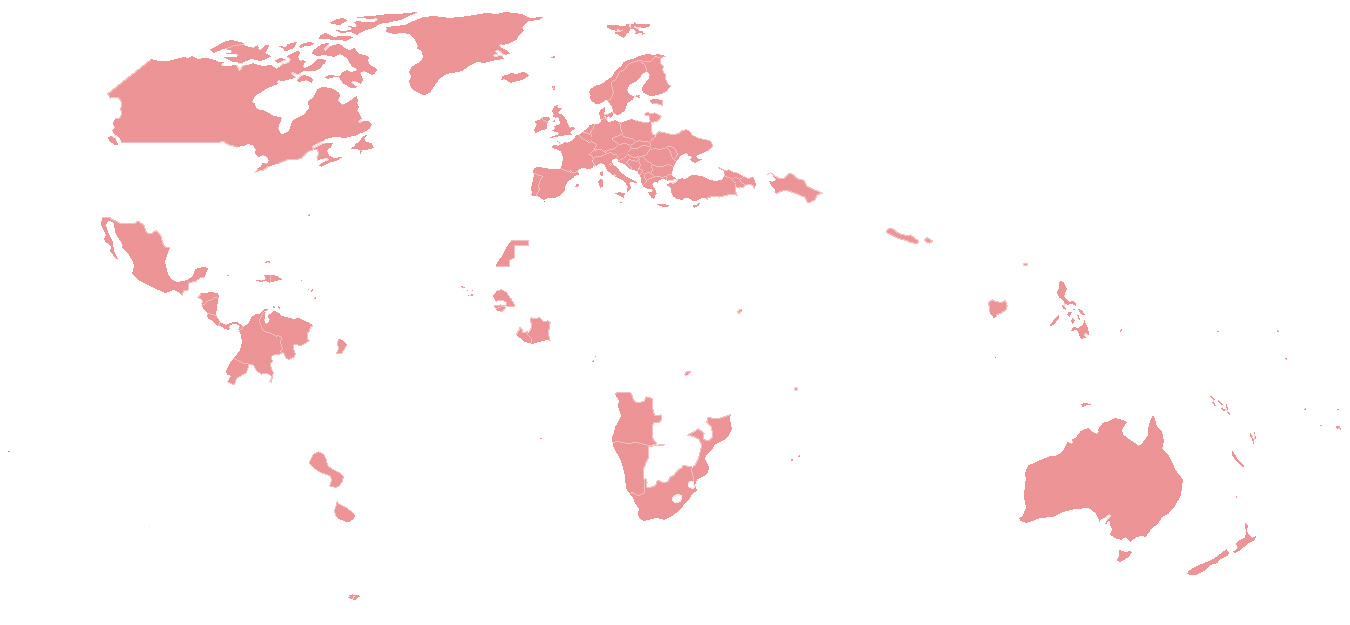
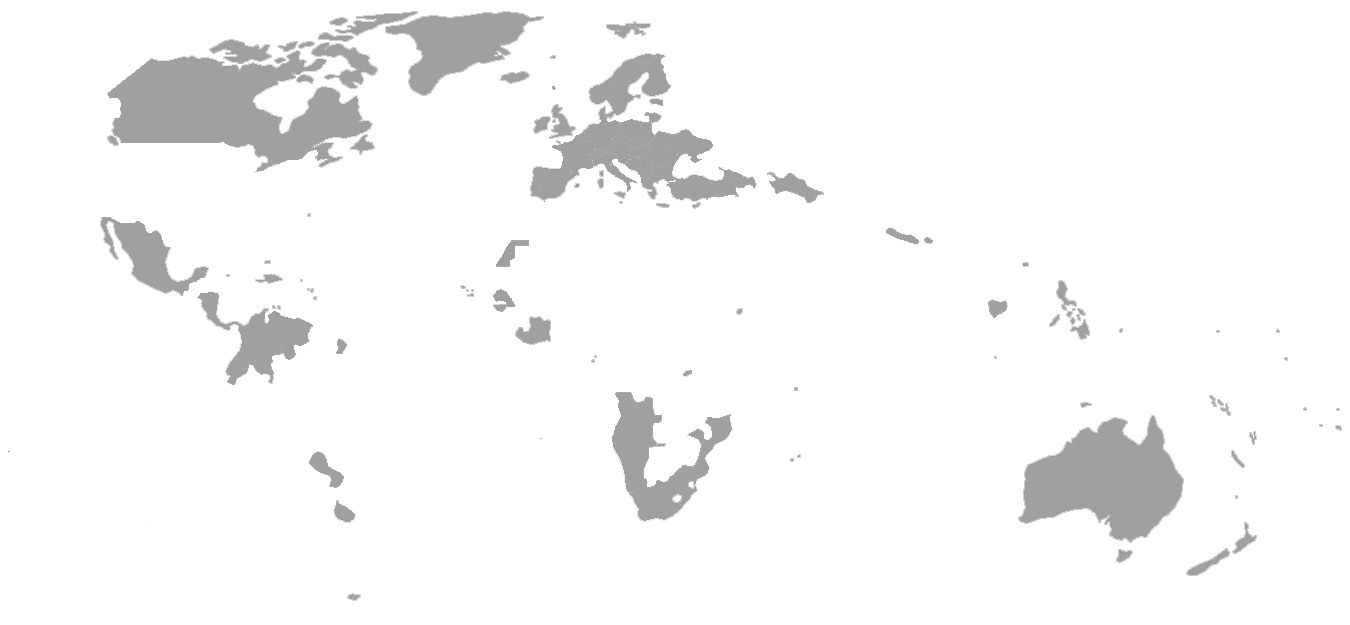
modification couleurs, sauts de lignes, guillemets, taille typo

diff --git a/index.html b/index.html
@@ -1,90 +1,77 @@
 <html>
-
 <head>
-    <meta charset="UTF-8">
-    <!-- Styles -->
-    <link href="style.css" rel="stylesheet" type="text/css">
-    <link href="https://fonts.googleapis.com/css?family=Helvetica:300" rel="stylesheet">
-    <!-- Librairies -->
-    <script language="javascript" type="text/javascript" src="libraries/p5.js"></script>
-    <script language="javascript" type="text/javascript" src="libraries/p5.sound.js"></script>
+<meta charset="UTF-8">
+<!-- Styles -->
+<link href="style.css" rel="stylesheet" type="text/css">
+<link href="https://fonts.googleapis.com/css?family=Helvetica:300" rel="stylesheet">
+<!-- Librairies -->
+<script language="javascript" type="text/javascript" src="libraries/p5.js"></script>
+<script language="javascript" type="text/javascript" src="libraries/p5.sound.js"></script>
 
-    <!-- Scripts -->
-    <script language="javascript" type="text/javascript" src="index.js"></script>
-
+<!-- Scripts -->
+<script language="javascript" type="text/javascript" src="index.js"></script>
 </head>
 
 <body>
-    <div class="container">
-        <div class="pages" id="pages">
-            <div class="page page1">
-                <div class="page-content">
-                    <blockquote class="citation">
-                        <a href="page1.html">« Il n’est point d’hommes
-                            <br> en cette terre
-                            <br> dont la culpabilité
-                            <br> soit totale
-                            <br> et dont il faille pour toujours
-                            <br> désespérer totalement. »</a>
-                    </blockquote>
-                    <svg onclick="goPage2()" class="arrow" width="64" height="64" viewBox="0 0 64 64">
-                        <path d="M32.919 55.738c-0.858 0.867-0.858 2.266 0 3.133s2.243 0.867 3.101 0l25.056-25.302c0.858-0.867 0.858-2.269 0-3.133l-25.056-25.306c-0.858-0.867-2.243-0.867-3.101 0s-0.858 2.266 0 3.133l22.848 23.738-22.848 23.738z"></path>
-                    </svg>
-                </div>
-            </div>
-            <div class="page page2">
-                <div class="page-content">
-                    <svg onclick="goPage1()" class="arrow previous" width="64" height="64" viewBox="0 0 64 64">
-                        <path d="M32.919 55.738c-0.858 0.867-0.858 2.266 0 3.133s2.243 0.867 3.101 0l25.056-25.302c0.858-0.867 0.858-2.269 0-3.133l-25.056-25.306c-0.858-0.867-2.243-0.867-3.101 0s-0.858 2.266 0 3.133l22.848 23.738-22.848 23.738z"></path>
-                    </svg>
-                    <blockquote class="citation">
-                        <a href="page2.html">« La passion meurtrière
-                            <br> n’est pas arrêtée par
-                            <br> la peur de la mort,
-                            <br> il n’y a pas dans la peine de mort de valeur dissuasive. »</a>
-                    </blockquote>
-                    <svg onclick="goPage3()" class="arrow" width="64" height="64" viewBox="0 0 64 64">
-                        <path d="M32.919 55.738c-0.858 0.867-0.858 2.266 0 3.133s2.243 0.867 3.101 0l25.056-25.302c0.858-0.867 0.858-2.269 0-3.133l-25.056-25.306c-0.858-0.867-2.243-0.867-3.101 0s-0.858 2.266 0 3.133l22.848 23.738-22.848 23.738z"></path>
-                    </svg>
-                </div>
-            </div>
-            <div class="page page3">
-                <div class="page-content">
-                    <svg onclick="goPage2()" class="arrow previous" width="64" height="64" viewBox="0 0 64 64">
-                        <path d="M32.919 55.738c-0.858 0.867-0.858 2.266 0 3.133s2.243 0.867 3.101 0l25.056-25.302c0.858-0.867 0.858-2.269 0-3.133l-25.056-25.306c-0.858-0.867-2.243-0.867-3.101 0s-0.858 2.266 0 3.133l22.848 23.738-22.848 23.738z"></path>
-                    </svg>
-                    <blockquote class="citation">
-                        <a href="page3.html">« Cette conception-là
-                            <br> de la justice
-                            <br> n’est pas celle
-                            <br> des pays de liberté. » </a>
-                    </blockquote>
-                    <svg onclick="goPage4()" class="arrow" width="64" height="64" viewBox="0 0 64 64">
-                        <path d="M32.919 55.738c-0.858 0.867-0.858 2.266 0 3.133s2.243 0.867 3.101 0l25.056-25.302c0.858-0.867 0.858-2.269 0-3.133l-25.056-25.306c-0.858-0.867-2.243-0.867-3.101 0s-0.858 2.266 0 3.133l22.848 23.738-22.848 23.738z"></path>
-                    </svg>
-                </div>
-            </div>
-            <div class="page page4">
-                <div class="page-content">
-                        <svg onclick="goPage3()" class="arrow previous" width="64" height="64" viewBox="0 0 64 64">
-                            <path d="M32.919 55.738c-0.858 0.867-0.858 2.266 0 3.133s2.243 0.867 3.101 0l25.056-25.302c0.858-0.867 0.858-2.269 0-3.133l-25.056-25.306c-0.858-0.867-2.243-0.867-3.101 0s-0.858 2.266 0 3.133l22.848 23.738-22.848 23.738z"></path>
-                        </svg>
-                    <blockquote class="citation">
-                        <a href="page4.html">« Demain,
-                            <br> la justice française ne sera plus une justice qui tue
-                            <br> (...)
-                            <br> et demain
-                            <br> les pages sanglantes de notre justice seront tournées. (...)
-                            <br>
-                            <br> Demain, c’est l’abolition.
-                            <br> Législateurs français,
-                            <br> de tout mon coeur,
-                            <br> je vous remercie. »</a>
-                    </blockquote>
-                </div>
-            </div>
-        </div>
+<div class="container">
+  <div class="pages" id="pages">
+    <div class="page page1">
+      <div class="page-content">
+        <blockquote class="citation"> <a href="page1.html"> Il n’est point d’hommes en cette terre <br>
+          dont la culpabilité soit totale <br>
+          et dont il faille pour toujours <br>
+          désespérer totalement. </a> </blockquote>
+        <svg onclick="goPage2()" class="arrow" width="64" height="64" viewBox="0 0 64 64">
+          <path d="M32.919 55.738c-0.858 0.867-0.858 2.266 0 3.133s2.243 0.867 3.101 0l25.056-25.302c0.858-0.867 0.858-2.269 0-3.133l-25.056-25.306c-0.858-0.867-2.243-0.867-3.101 0s-0.858 2.266 0 3.133l22.848 23.738-22.848 23.738z"></path>
+        </svg>
+      </div>
     </div>
+    <div class="page page2">
+      <div class="page-content">
+        <svg onclick="goPage1()" class="arrow previous" width="64" height="64" viewBox="0 0 64 64">
+          <path d="M32.919 55.738c-0.858 0.867-0.858 2.266 0 3.133s2.243 0.867 3.101 0l25.056-25.302c0.858-0.867 0.858-2.269 0-3.133l-25.056-25.306c-0.858-0.867-2.243-0.867-3.101 0s-0.858 2.266 0 3.133l22.848 23.738-22.848 23.738z"></path>
+        </svg>
+        <blockquote class="citation"> <a href="page2.html"> La passion meurtrière <br>
+          n’est pas arrêtée par la peur de la mort, <br>
+          il n’y a pas dans la peine de mort <br>
+          de valeur dissuasive. </a> </blockquote>
+        <svg onclick="goPage3()" class="arrow" width="64" height="64" viewBox="0 0 64 64">
+          <path d="M32.919 55.738c-0.858 0.867-0.858 2.266 0 3.133s2.243 0.867 3.101 0l25.056-25.302c0.858-0.867 0.858-2.269 0-3.133l-25.056-25.306c-0.858-0.867-2.243-0.867-3.101 0s-0.858 2.266 0 3.133l22.848 23.738-22.848 23.738z"></path>
+        </svg>
+      </div>
+    </div>
+    <div class="page page3">
+      <div class="page-content">
+        <svg onclick="goPage2()" class="arrow previous" width="64" height="64" viewBox="0 0 64 64">
+          <path d="M32.919 55.738c-0.858 0.867-0.858 2.266 0 3.133s2.243 0.867 3.101 0l25.056-25.302c0.858-0.867 0.858-2.269 0-3.133l-25.056-25.306c-0.858-0.867-2.243-0.867-3.101 0s-0.858 2.266 0 3.133l22.848 23.738-22.848 23.738z"></path>
+        </svg>
+        <blockquote class="citation"> <a href="page3.html"> Cette conception-là de la justice <br>
+          n’est pas celle des pays de liberté. </a> </blockquote>
+        <svg onclick="goPage4()" class="arrow" width="64" height="64" viewBox="0 0 64 64">
+          <path d="M32.919 55.738c-0.858 0.867-0.858 2.266 0 3.133s2.243 0.867 3.101 0l25.056-25.302c0.858-0.867 0.858-2.269 0-3.133l-25.056-25.306c-0.858-0.867-2.243-0.867-3.101 0s-0.858 2.266 0 3.133l22.848 23.738-22.848 23.738z"></path>
+        </svg>
+      </div>
+    </div>
+    <div class="page page4">
+      <div class="page-content">
+        <svg onclick="goPage3()" class="arrow previous" width="64" height="64" viewBox="0 0 64 64">
+          <path d="M32.919 55.738c-0.858 0.867-0.858 2.266 0 3.133s2.243 0.867 3.101 0l25.056-25.302c0.858-0.867 0.858-2.269 0-3.133l-25.056-25.306c-0.858-0.867-2.243-0.867-3.101 0s-0.858 2.266 0 3.133l22.848 23.738-22.848 23.738z"></path>
+        </svg>
+        <blockquote class="citation"> <a href="page4.html"> Demain, <br>
+          la justice française ne sera plus une justice qui tue <br>
+          et demain <br>
+          les pages sanglantes de notre justice seront tournées. <br>
+          <br>
+          <br>
+          <br>
+          <br>
+          Demain, c’est l’abolition. <br>
+          Législateurs français, <br>
+          de tout mon cœur, <br>
+          je vous remercie. </a> </blockquote>
+      </div>
+    </div>
+  </div>
+</div>
 </body>
-
 </html>

diff --git a/page3.html b/page3.html
@@ -6,14 +6,16 @@
 <link href="https://fonts.googleapis.com/css?family=Helvetica" rel="stylesheet">
 <script language="javascript" type="text/javascript" src="libraries/p5.js"></script>
 <script language="javascript" type="text/javascript" src="libraries/p5.sound.js"></script>
-<script language="javascript" type="text/javascript" src="sketch_171030d.js"></script> 
+<script language="javascript" type="text/javascript" src="sketch_171030d.js"></script>
 <title>36 pays</title>
 </head>
 
 <body>
 <div class="content"> <a href="cartes/carte_3.jpg"
+  
   <div class="beat"> 36 pays peuvent être considérés comme abolitionnistes de facto. </div>
 </div>
-<sound src="assets/Battement_de_coeur.wav"
+<sound src="assets/battement_de_coeur.wav"
+
 </body>
 </html>

diff --git a/style.css b/style.css
@@ -1,6 +1,6 @@
 /* CSS Document */
 
-html {
+/*html {
     font-size: 100px;
 }
 
@@ -22,7 +22,7 @@ html {
         font-size: 80px !important;
     }
 }
-
+*/
 body {
     width: 100vw;
     height: 100vh;
@@ -73,23 +73,23 @@ canvas {
 }
 
 .page1 .page-content {
-    background: #EC9496;
-    font-size: 1rem;
+    background:#A0A0A0;
+    font-size: 68px;
 }
 
 .page2 .page-content {
     background: #B74749;
-    font-size: 1rem;
+    font-size: 58px;
 }
 
 .page3 .page-content {
     background: #7C3536;
-    font-size: 1.2rem;
+    font-size: 68px;
 }
 
 .page4 .page-content {
     background: #77292A;
-    font-size: 0.5rem;
+    font-size: 44px;
 }
 
 .citation {

diff --git a/page2.html b/page2.html
@@ -15,6 +15,6 @@
   <div class="beat"> 9 l’ont aboli pour tous les crimes sauf crimes exceptionnels, <br>
     tels que ceux commis en temps de guerre</div>
  </div>
-<sound src="assets/Battement_de_coeur.wav"
+<sound src="assets/battement_de_coeur.wav"
 </body>
 </html>

diff --git a/styles_page1.css b/styles_page1.css
@@ -7,11 +7,11 @@ body {
     padding: 0;
     font-family: 'Helvetica', sans-serif;
 	font-size: 30px;
-	color: #EC9496;
+	color: #A0A0A0;
 	background: #FFFFFF;
 }
 a {text-decoration: none;
-  color: #EC9496;
+  color: #A0A0A0;
 }
 
 .content{
